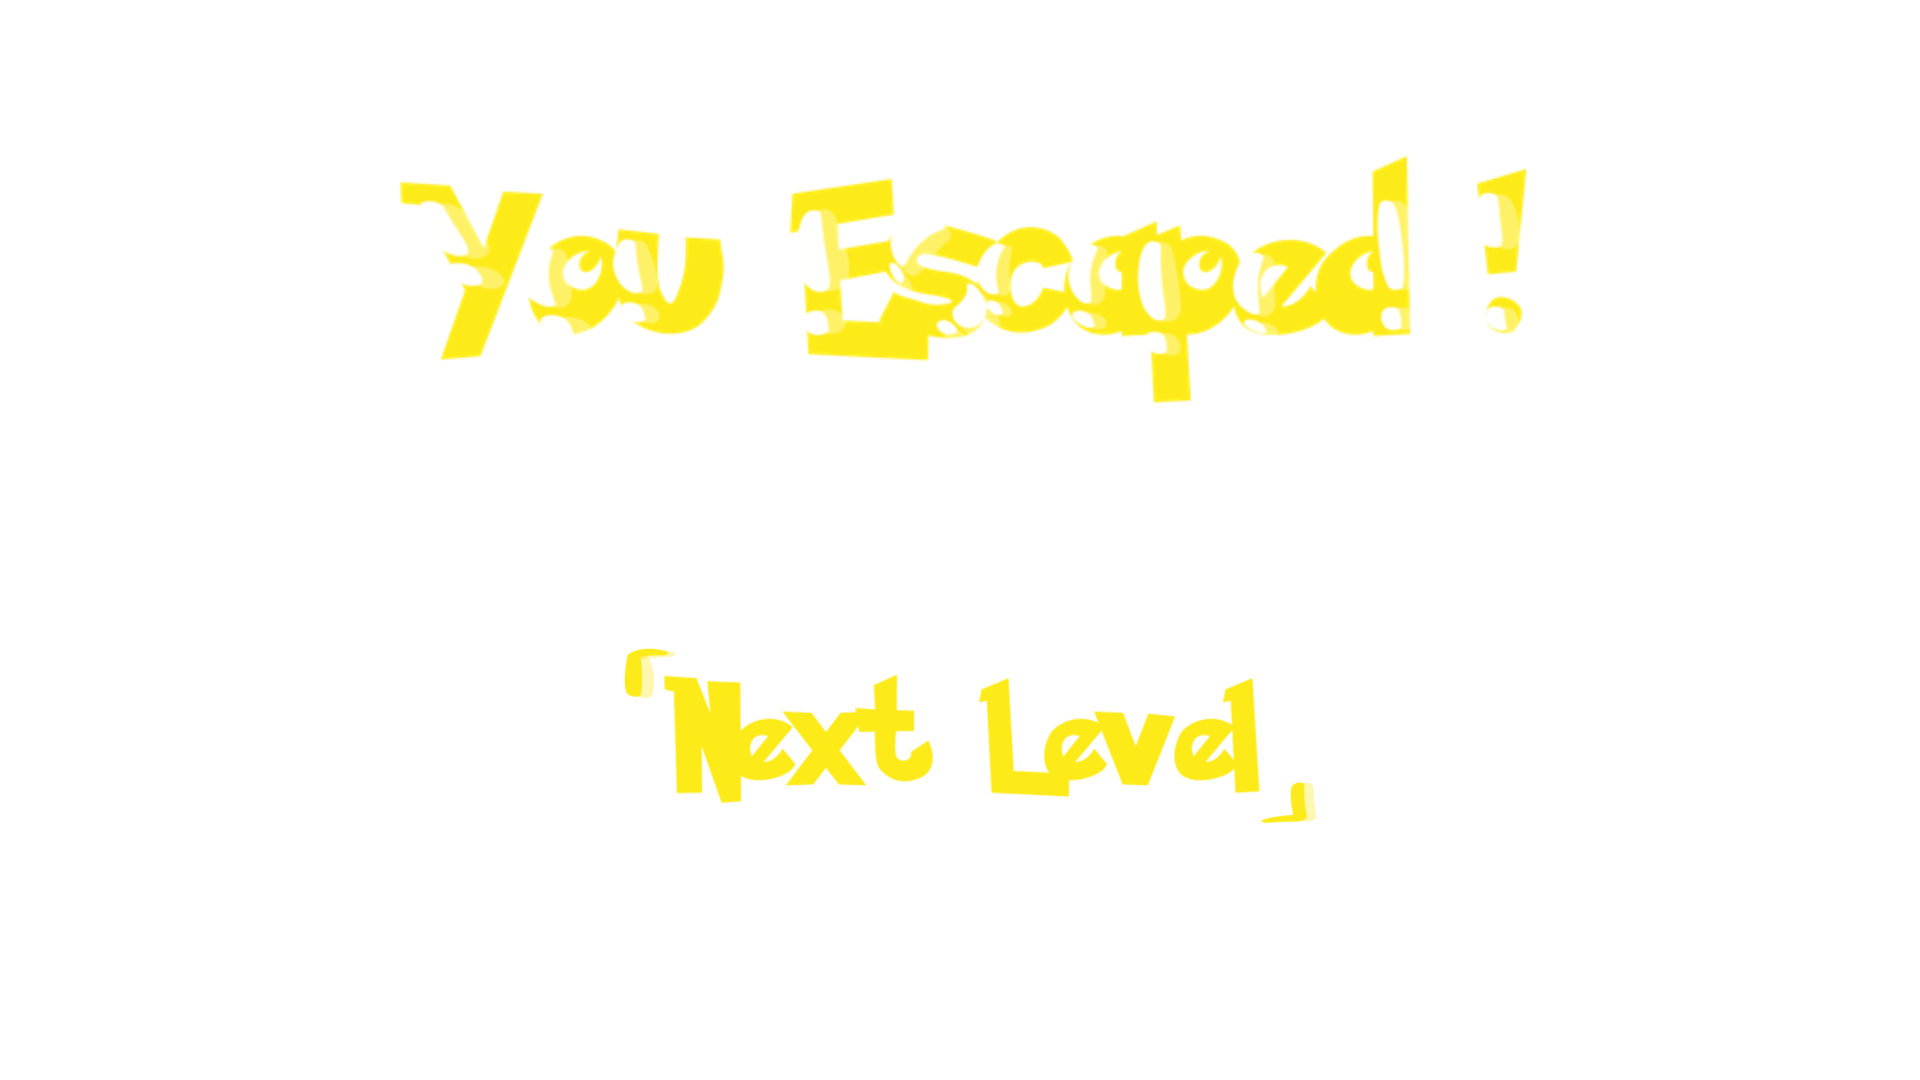
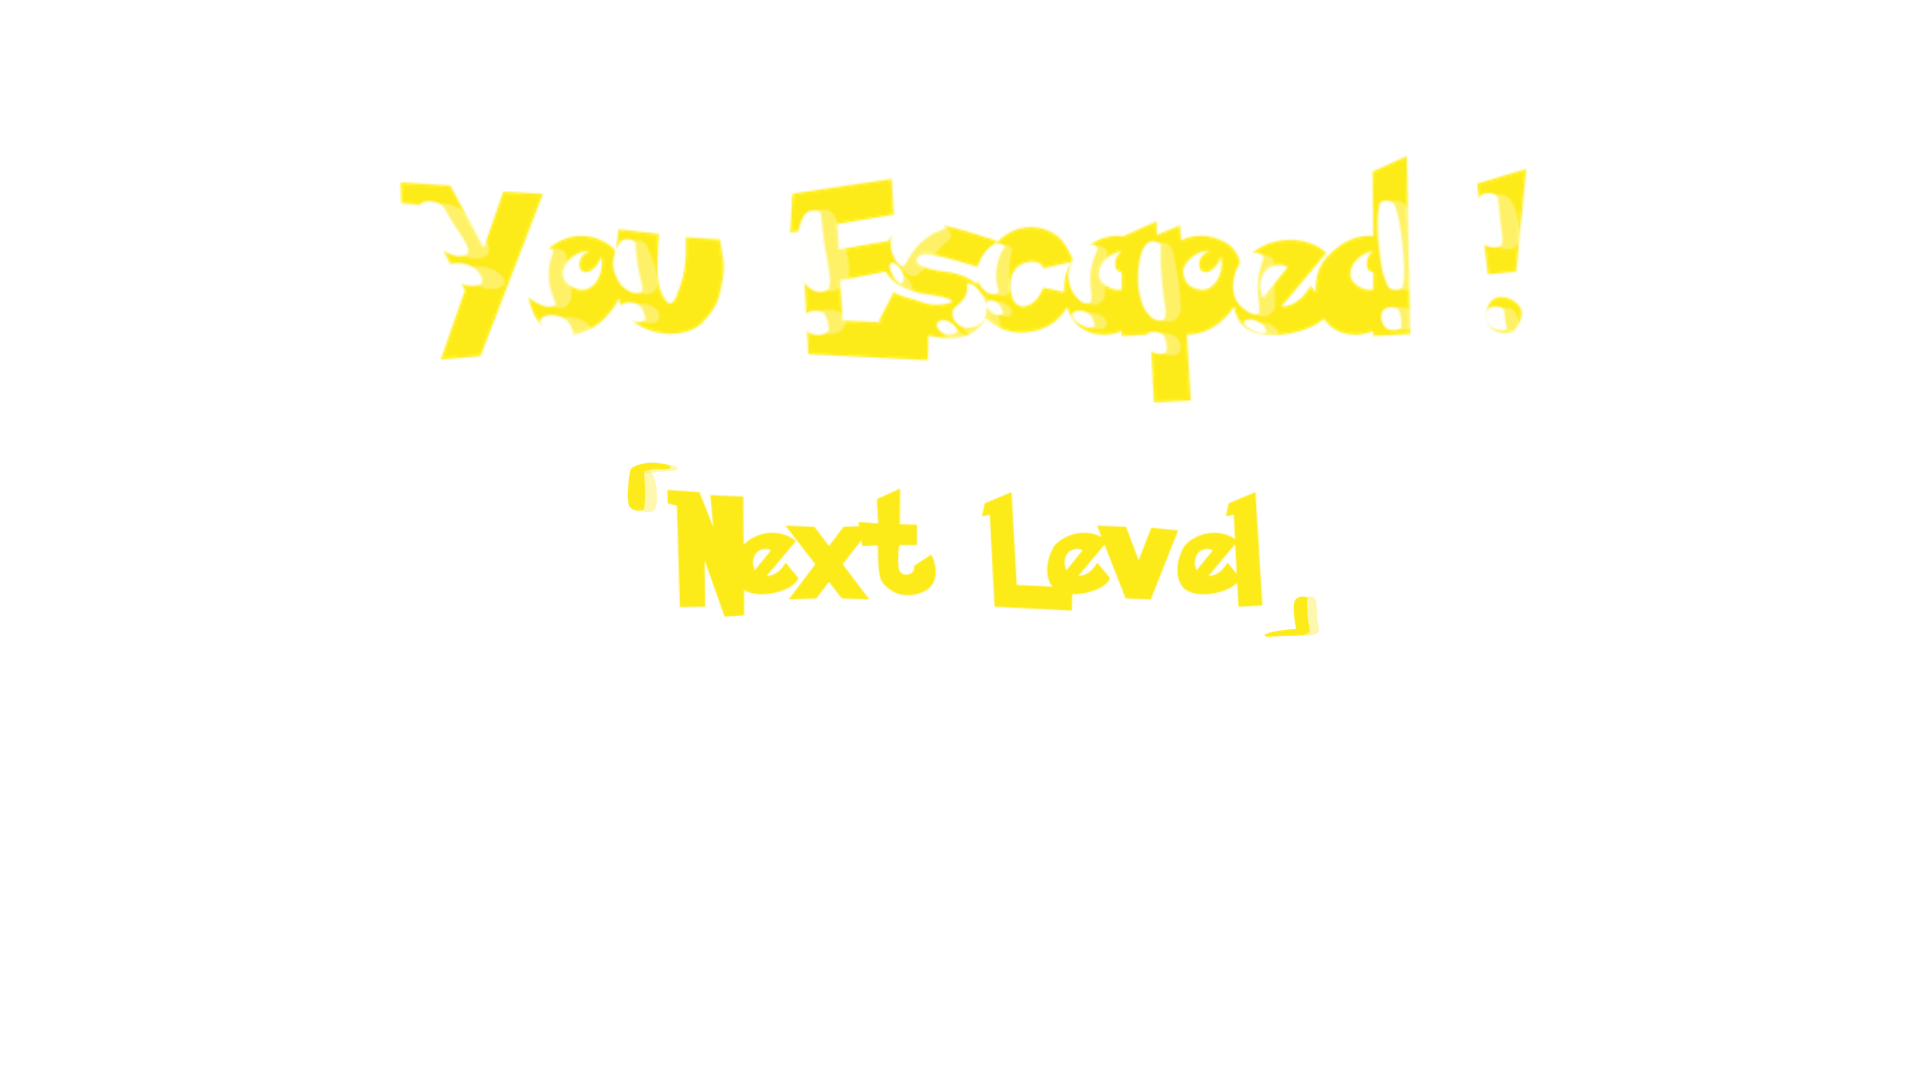
switch next level and restart

Changed region(s): [[0.3125, 0.5806, 0.6875, 0.7639], [0.3125, 0.4278, 0.6875, 0.6111]]

diff --git a/Assets/Scripts/UI/EscapeMenuController.cs b/Assets/Scripts/UI/EscapeMenuController.cs
@@ -26,8 +26,8 @@ public class EscapeMenuController : MonoBehaviour
         Crosshair.SetActive(false);
         HandGrab.SetActive(false);
         // default selection
-        selectedOption = MenuOption.Restart;
-        restartOptionSelectedSprite.SetActive(true);
+        selectedOption = MenuOption.Next;
+        nextOptionSelectedSprite.SetActive(true);
     }
 
     public bool isPlayerEscaped()
@@ -70,19 +70,19 @@ public class EscapeMenuController : MonoBehaviour
         switch (selectedOption)
         {
             case MenuOption.Restart:
-                selectedOption = MenuOption.Menu;
+                selectedOption = MenuOption.Next;
                 restartOptionSelectedSprite.SetActive(false);
-                menuOptionSelectedSprite.SetActive(true);
+                nextOptionSelectedSprite.SetActive(true);
                 break;
             case MenuOption.Next:
-                selectedOption = MenuOption.Restart;
+                selectedOption = MenuOption.Menu;
                 nextOptionSelectedSprite.SetActive(false);
-                restartOptionSelectedSprite.SetActive(true);
+                menuOptionSelectedSprite.SetActive(true);
                 break;
             case MenuOption.Menu:
-                selectedOption = MenuOption.Next;
+                selectedOption = MenuOption.Restart;
                 menuOptionSelectedSprite.SetActive(false);
-                nextOptionSelectedSprite.SetActive(true);
+                restartOptionSelectedSprite.SetActive(true);
                 break;
         }
     }
@@ -92,19 +92,19 @@ public class EscapeMenuController : MonoBehaviour
         switch (selectedOption)
         {
             case MenuOption.Restart:
-                selectedOption = MenuOption.Next;
-                restartOptionSelectedSprite.SetActive(false);
-                nextOptionSelectedSprite.SetActive(true);
-                break;
-            case MenuOption.Next:
                 selectedOption = MenuOption.Menu;
-                nextOptionSelectedSprite.SetActive(false);
+                restartOptionSelectedSprite.SetActive(false);
                 menuOptionSelectedSprite.SetActive(true);
                 break;
-            case MenuOption.Menu:
+            case MenuOption.Next:
                 selectedOption = MenuOption.Restart;
-                menuOptionSelectedSprite.SetActive(false);
+                nextOptionSelectedSprite.SetActive(false);
                 restartOptionSelectedSprite.SetActive(true);
+                break;
+            case MenuOption.Menu:
+                selectedOption = MenuOption.Next;
+                menuOptionSelectedSprite.SetActive(false);
+                nextOptionSelectedSprite.SetActive(true);
                 break;
         }
     }
